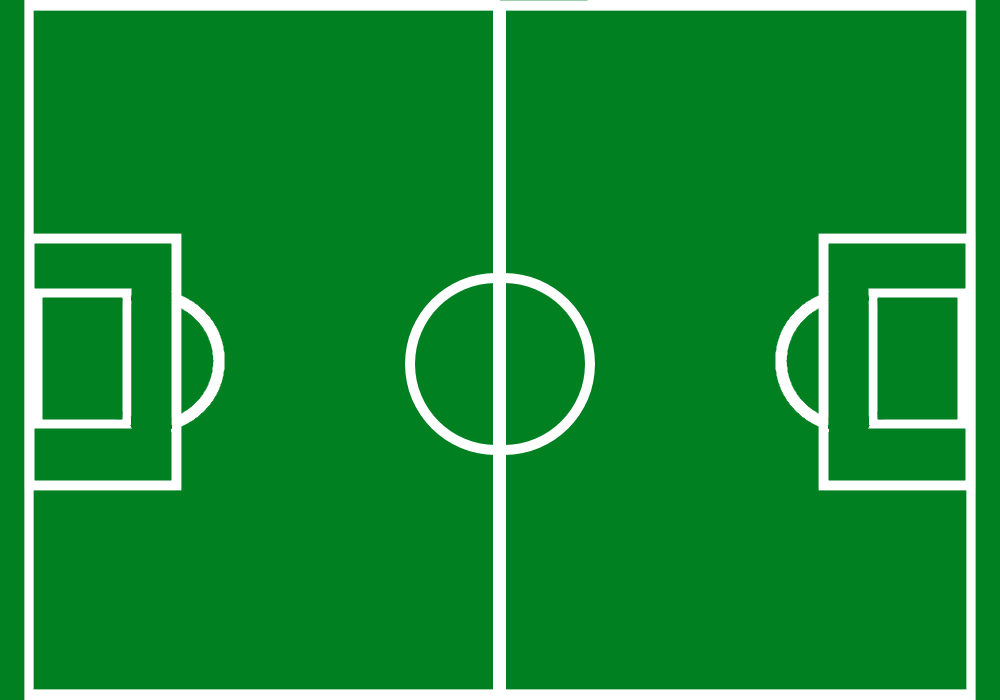
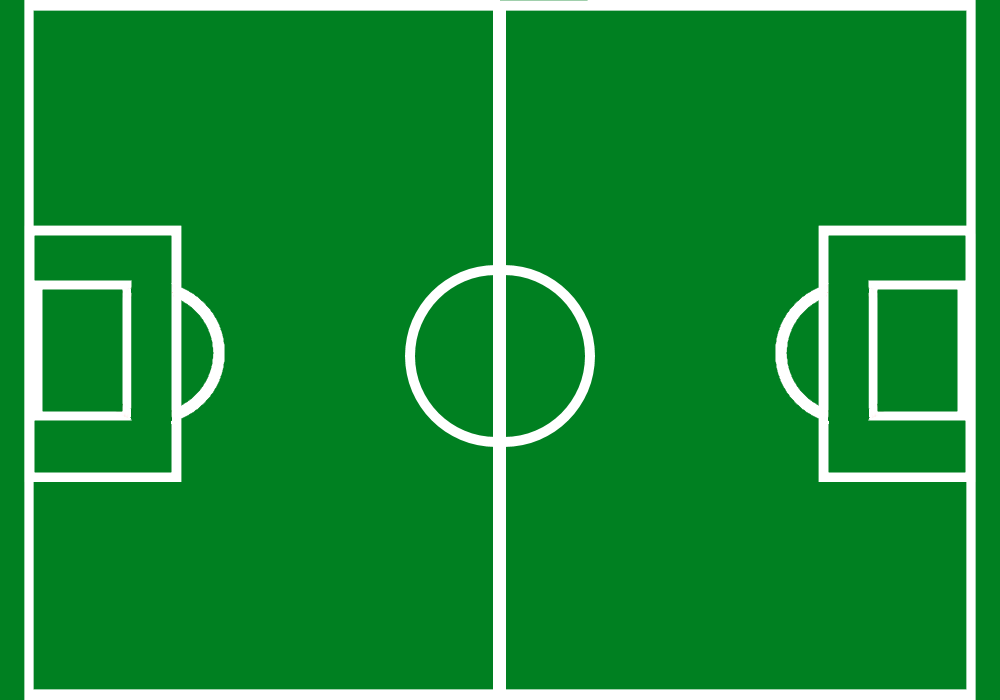
realined feild

diff --git a/Goal.py b/Goal.py
@@ -3,7 +3,7 @@ import pygame, math
 class Goal():
     def __init__(self, side, screenSize, size=None):
         self.image = pygame.image.load("Images/goal/Goal.png")
-        yOffset = 9;  #fudge factor to fix goals not quite center
+        yOffset = 0;  #fudge factor to fix goals not quite center
         if size:
             self.image=pygame.transform.scale(self.image,size)
         if side == "left":
